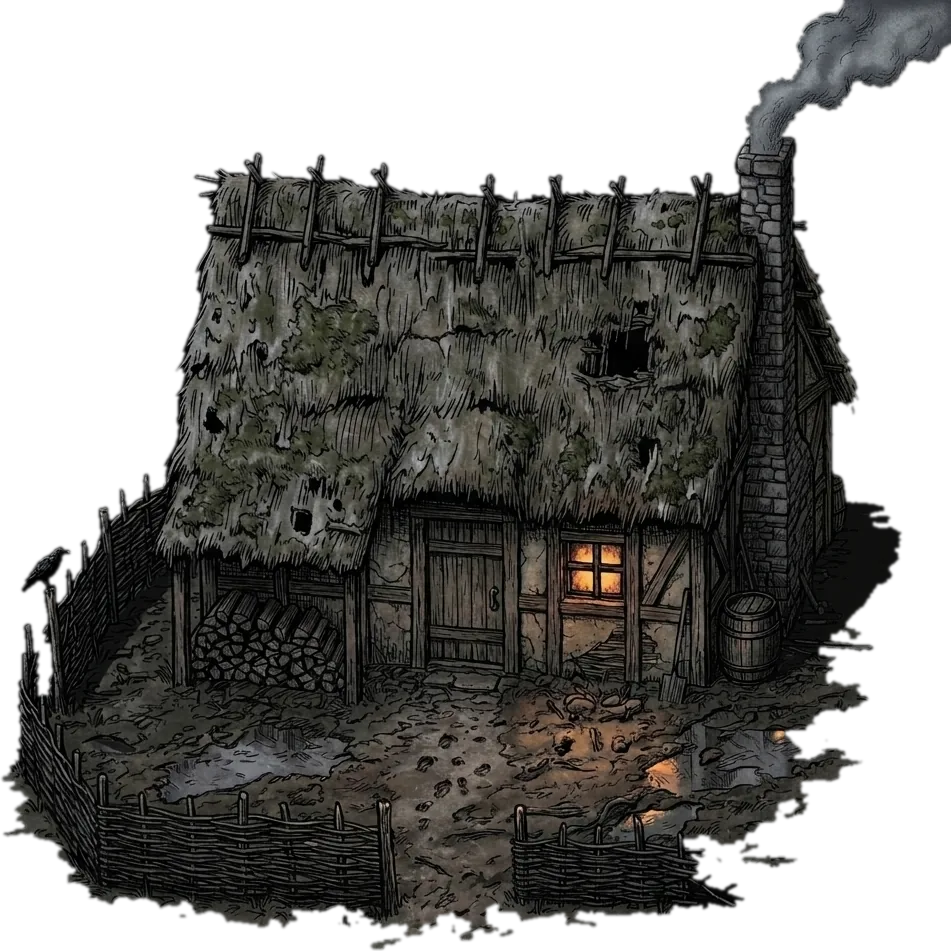
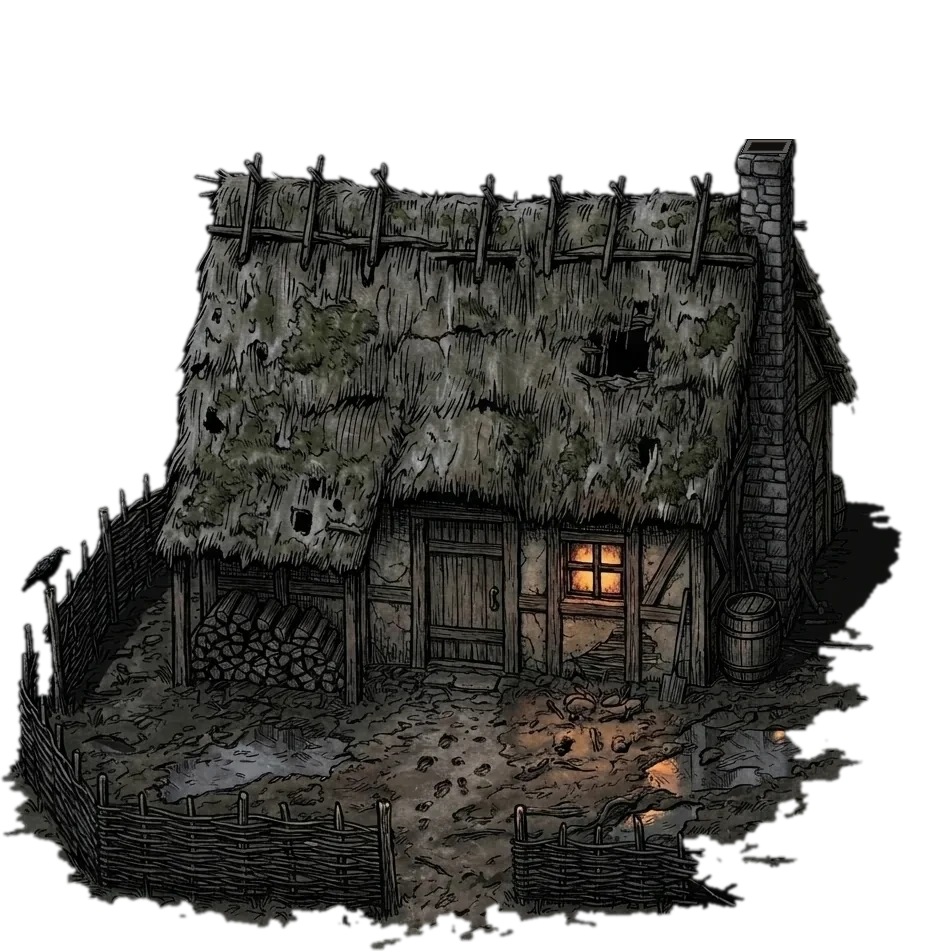
Ruchomy dym z komina i iskry nad paleniskiem w izbie
Agent: Claude (Opus)
Claude-Session: https://claude.ai/code/session_01GQsjt3bZ7B4T5Es8veBj7T

Changed region(s): [[0.7624, 0.0, 1.0, 0.183]]

diff --git a/gra/rysowanie.js b/gra/rysowanie.js
@@ -181,9 +181,14 @@ export function przygotujRysowanie(cv, obrazChaty, { wymusProcesor = false, obra
   const powietrze = new P.Container();           // krew w locie
   const znakiZiemia = new P.Graphics();          // zapowiedź uderzenia kolosa i fala po nim: leżą na ziemi
   const para = new P.Graphics();                 // oddech w zimnej nocy
+  // Dym z komina i iskry z paleniska w izbie: chata ma wyglądać na zamieszkaną (Patryk, 25 XI 20:40, „dym z komina … jest w miejscu”).
+  // Dym był namalowany na obrazie chaty i stał; teraz obłoki wychodzą z wylotu, rosną, płyną z wiatrem i bledną.
+  const dymK = new P.Graphics(), dymy = [], iskryIzby = [];
+  const KOMIN = { x: CHATA.x + 768 * CHATA.skala, y: CHATA.y + 146 * CHATA.skala };
+  let dymNa = 0, iskraNa = 0;
   const trupyC = new P.Container();              // ostatnie ciała leżą jako ostre obrazy, starsze idą do śladów
   const ozdoby = new P.Container();                // kępy trawy, mchu i liści z arkuszy Przemka: leżą pod krwią
-  swiat.addChild(ziemia, plamy, droga, ozdoby, podworko, izbaSpod, slady, trupyC, znakiZiemia, cienie, echaS, aktorzy, echa, powietrze, para);
+  swiat.addChild(ziemia, plamy, droga, ozdoby, podworko, izbaSpod, slady, trupyC, znakiZiemia, cienie, echaS, aktorzy, echa, powietrze, para, dymK);
 
   // drzewa
   const drzewa = DRZEWA.map((d, i) => {
@@ -1284,6 +1289,34 @@ export function przygotujRysowanie(cv, obrazChaty, { wymusProcesor = false, obra
       for (const [szer, kol, al] of [[4, 0x9a5cff, 0.75], [1.5, 0xf4e8ff, 0.95]]) {
         smugi.lineStyle(szer, kol, al * (1 - q)); smugi.moveTo(p.pkt[0], p.pkt[1]);
         for (let k = 2; k < p.pkt.length; k += 2) smugi.lineTo(p.pkt[k] + losuj(-2, 2), p.pkt[k + 1]);
+      }
+    }
+
+    // dym z komina: czas rzeczywisty, więc dym idzie także, gdy gra stoi w ciszy chaty
+    {
+      const dtr = Math.min(0.05, dt);
+      dymNa -= dtr;
+      if (dymNa <= 0) { dymNa = losuj(0.09, 0.15); if (dymy.length < 70) dymy.push({ x: KOMIN.x + losuj(-4, 4), y: KOMIN.y, vx: losuj(4, 10), vy: losuj(-34, -26), r: losuj(5, 7), t: 0, czas: losuj(4.5, 6), f: losuj(0, TAU) }); }
+      dymK.clear();
+      const wid = 1 - 0.8 * stanRys.bezDachu;                    // w izbie dach znika, dym zostaje, ale cichszy
+      for (let i = dymy.length - 1; i >= 0; i--) {
+        const d = dymy[i]; d.t += dtr; const q = d.t / d.czas;
+        if (q >= 1) { dymy.splice(i, 1); continue; }
+        d.vx = Math.min(d.vx + (4 + 2 * Math.sin(czas * 0.4)) * dtr, 26);            // wiatr znosi w prawo, raz mocniej, raz słabiej
+        d.vy *= Math.exp(-dtr * 0.15);
+        d.x += (d.vx + Math.sin(d.f + d.t * 1.3) * 4) * dtr; d.y += d.vy * dtr;
+        const r = d.r + 24 * Math.sqrt(q), al = Math.min(1, q * 25) * Math.pow(1 - q, 1.5) * 0.42 * wid;
+        dymK.lineStyle(0);
+        dymK.beginFill(q < 0.1 ? 0x4a4846 : q < 0.35 ? 0x7c7f84 : 0x9a9fa7, al); dymK.drawEllipse(d.x, d.y, r, r * 0.82); dymK.drawEllipse(d.x + r * 0.45, d.y - r * 0.3, r * 0.6, r * 0.5); dymK.endFill();   // wyżej jaśniejszy, w świetle księżyca
+      }
+      // iskry nad paleniskiem w izbie, widać je, gdy dach jest zdjęty
+      iskraNa -= dtr;
+      if (stanRys.bezDachu > 0.05 && iskraNa <= 0) { iskraNa = losuj(0.12, 0.35); iskryIzby.push({ x: CHATA.palenisko.x + losuj(-14, 14), y: CHATA.palenisko.y + 34, vx: losuj(-8, 8), vy: losuj(-38, -22), t: 0, czas: losuj(0.7, 1.3) }); }
+      for (let i = iskryIzby.length - 1; i >= 0; i--) {
+        const k = iskryIzby[i]; k.t += dtr; const q = k.t / k.czas;
+        if (q >= 1 || stanRys.bezDachu < 0.05) { iskryIzby.splice(i, 1); continue; }
+        k.x += (k.vx + Math.sin(k.t * 9 + i) * 10) * dtr; k.y += k.vy * dtr;
+        dymK.lineStyle(0); dymK.beginFill(q < 0.5 ? 0xffd27a : 0xff8a3a, (1 - q) * stanRys.bezDachu); dymK.drawCircle(k.x, k.y, 1.6 * (1 - q * 0.5)); dymK.endFill();
       }
     }
 

diff --git a/narzedzia/chata-bez-dymu.py b/narzedzia/chata-bez-dymu.py
@@ -1,0 +1,13 @@
+# Zdejmuje namalowany dym znad komina z grafika/chata.webp (Patryk, 25 XI 20:40: „dym z komina … jest w miejscu”).
+# Dym rysuje teraz gra (rysowanie.js, „dym z komina”), więc na obrazie zostaje komin z ciemnym wylotem.
+# Uruchamiać na obrazie z dymem (kopia sprzed zmiany: git show b14a895:grafika/chata.webp).
+from PIL import Image, ImageDraw
+P = 'grafika/chata.webp'
+im = Image.open(P).convert('RGBA'); px = im.load()
+for y in range(0, 139):
+    for x in range(690, im.width): px[x, y] = (0, 0, 0, 0)     # nad krawędzią komina był tylko dym
+d = ImageDraw.Draw(im)
+gora = [(747, 139), (792, 139), (787, 153), (741, 153)]       # wierzch komina (był zasłonięty dymem)
+d.polygon(gora, fill=(92, 90, 88, 255), outline=(20, 18, 16, 255))
+d.polygon([(752, 142), (786, 142), (782, 150), (747, 150)], fill=(18, 15, 13, 255), outline=(40, 36, 33, 255))   # wylot
+im.save(P, 'WEBP', quality=92, method=6)

diff --git a/STAN.md b/STAN.md
@@ -2,7 +2,7 @@
 
 Aktualizowany przy każdej zmianie. Historia jest w gicie, tutaj tylko to, co obowiązuje teraz.
 
-**Ostatnia zmiana:** 25 XI 2026 po 20:50: chata wygląda na niedawno zamieszkaną, pierwsza kartka leży w izbie, kartki opowiadają szukanie lekarstwa i zapowiadają bossa. Wcześniej: 25 XI 2026 po 20:30: kartki dziennika rycerza, klątwa jako cena siły i dwa zakończenia, przewroty dwuręcznym z póz Gemini, lepsze padanie ghula, kałuża wiedźmy znika. Wcześniej: 25 XI 2026 po 16:40: wiedźma znów rozpływa się w kałużę błota, bez wybuchu. Wcześniej: 25 XI 2026 po 16:20: zwykły miecz cofa się w gardzie oburącz z filmu; kolos i wiedźma padają z filmu zamiast rozcięcia na pół. Wcześniej: 25 XI 2026 po 15:35: cofanie w bloku zwykłym mieczem bez szarpnięć. Wcześniej: 25 XI 2026 po 15:35: zwykły miecz w obronie trzyma gardę oburącz także przy cofaniu. Wcześniej: 25 XI 2026 po 15:30: unik nie ślizga się w przysiadzie (prędkość za fazą przewrotu), stare trupy i pęknięcia klątwy bledną. Wcześniej: 25 XI 2026 po 15:10: wiedźma patrzy na bohatera przy rzucie, krąży żywiej, kula ma błyskawice i dym; przewroty dwuręcznym bez stania na rękach. Wcześniej: 25 XI 2026 po 14:50: wiedźma z bagien rzuca kulami klątwy z daleka (noce 2–4); dwuręczny ma przewroty w górę i w dół. Wcześniej: 25 XI 2026 po 14:15: dwuręczny chowa miecz na plecy i z nich go wyciąga. Wcześniej: 25 XI 2026 po 14: dwuręczny ma własny unik, trafienie i klątwę z filmów Veo. Wcześniej: 25 XI 2026 po 13:50: droga z kafla Gemini, koleiny idą za zakrętami. Wcześniej: 25 XI 2026 po 13:30: mniejszy pasek życia na telefonie. Wcześniej: 25 XI 2026 po 13:30: droga z rysunku ziemi Przemka, beczki, drewno i pochodnia przy drodze (płoty zdjęte, Patryk: „nie pasują”). Wcześniej: mocniejsze fale od pierwszej nocy, droga do chatki, smuga cięcia tylko na końcu ostrza. Wcześniej po 13: 25 XI 2026 po 13: zwykły miecz cofa się w bloku krokami z filmu Veo; dwuręczny jak 24 XI. Wcześniej po południu: ziemia z kafla Gemini w stylu arkuszy. Wcześniej w południe: rekwizyty bez białych obwódek, spokojniejsza ziemia, bez podskoków w bloku zwykłym mieczem. Wcześniej przed południem: z dwuręcznym w bloku widać kroki w tył (film Patryka z Flow); drzewo zasłaniające bohatera przygasa, zamiast robić z niego ducha. Wcześniej 24 XI wpół do 20: wyciąganie i chowanie miecza tylko na stojąco, w biegu od razu. Wcześniej po 19: w bloku bohater drobi krótkie kroki zamiast sunąć, a cios w ostrze go cofa. Wcześniej po 19: z dwuręcznym bohater ma własne cięcie, gardę, bieg i blok (filmy Patryka z Flow), wybór ulepszeń w ramie z czaszkami. Wcześniej przed 19: totemy da się rozbić (strona cichnie), mikstury z łupu (Q), ognisko gaśnie i trzeba dorzucać drewna ze stosu pod chatą, wybór ulepszenia po każdej fali; dwie bronie (miecz i dwuręczny). Wcześniej wpół do 19: paski w ramie z czaszkami z portretem, totemy z filmu zamiast mgieł (potwory wychodzą spod nich). Wcześniej po 18: dłuższe przerwy między falami (9 s), z każdą falą więcej potworów i bardziej agresywne; etap B grafik Przemka (iskry przy bloku, rozbryzgi krwi, krąg z kolcami pod kolosem, ikony przycisków na telefonie). Wcześniej wieczorem: etap A grafik Przemka (ognisko z filmu, drzewa z arkuszy, kępy trawy, mchu i liści na ziemi, krew i kałuże z arkuszy; docs/materialy-przemka.md). Wcześniej po 15: blok z filmu (unosi, trzyma, drga przy ciosie) i skuteczniejszy (tańszy, szerszy, sam się obraca do wroga). W walce bohater biega z mieczem w dłoni, poza walką stoi prosto. Przed 15: drzwi zamyka się też z izby, jaśniej wokół bohatera, gęstszy koziołek w górę. Wcześniej po 14: przewrót w górę i w dół z filmów Patryka, drzwi chaty otwiera się E (z animacją i skrzypieniem), nowa mgła, polecenie do Flow w dwóch krokach. Wcześniej po południu: chata jak w Tibii (wchodzi się drzwiami, dach znika, w środku posłanie), wyciąganie i chowanie miecza z filmu, chód w dół przodem. Wcześniej w południe: chata ma izbę z obrazu Gemini (chodzenie, sen na posłaniu, wyjście drzwiami), a bohater obok chaty nie robi się już przezroczysty. Wcześniej rano: drzwi i odpoczynek w ciszy, cięcie jak mieczem (sierp i ostrze), garda w walce, plan chaty. W nocy: ghul i kolos z filmów Przemka, a bohater dostał bieg, chód plecami, przewrót przy uniku i upadek. Wcześniej tej nocy klątwa pod R i bohater z filmów. Fundamenty i gra czekają w pull requeście nr 1.
+**Ostatnia zmiana:** 25 XI 2026 po 21: dym z komina płynie z wiatrem zamiast stać, iskry nad paleniskiem w izbie. Wcześniej: 25 XI 2026 po 20:50: chata wygląda na niedawno zamieszkaną, pierwsza kartka leży w izbie, kartki opowiadają szukanie lekarstwa i zapowiadają bossa. Wcześniej: 25 XI 2026 po 20:30: kartki dziennika rycerza, klątwa jako cena siły i dwa zakończenia, przewroty dwuręcznym z póz Gemini, lepsze padanie ghula, kałuża wiedźmy znika. Wcześniej: 25 XI 2026 po 16:40: wiedźma znów rozpływa się w kałużę błota, bez wybuchu. Wcześniej: 25 XI 2026 po 16:20: zwykły miecz cofa się w gardzie oburącz z filmu; kolos i wiedźma padają z filmu zamiast rozcięcia na pół. Wcześniej: 25 XI 2026 po 15:35: cofanie w bloku zwykłym mieczem bez szarpnięć. Wcześniej: 25 XI 2026 po 15:35: zwykły miecz w obronie trzyma gardę oburącz także przy cofaniu. Wcześniej: 25 XI 2026 po 15:30: unik nie ślizga się w przysiadzie (prędkość za fazą przewrotu), stare trupy i pęknięcia klątwy bledną. Wcześniej: 25 XI 2026 po 15:10: wiedźma patrzy na bohatera przy rzucie, krąży żywiej, kula ma błyskawice i dym; przewroty dwuręcznym bez stania na rękach. Wcześniej: 25 XI 2026 po 14:50: wiedźma z bagien rzuca kulami klątwy z daleka (noce 2–4); dwuręczny ma przewroty w górę i w dół. Wcześniej: 25 XI 2026 po 14:15: dwuręczny chowa miecz na plecy i z nich go wyciąga. Wcześniej: 25 XI 2026 po 14: dwuręczny ma własny unik, trafienie i klątwę z filmów Veo. Wcześniej: 25 XI 2026 po 13:50: droga z kafla Gemini, koleiny idą za zakrętami. Wcześniej: 25 XI 2026 po 13:30: mniejszy pasek życia na telefonie. Wcześniej: 25 XI 2026 po 13:30: droga z rysunku ziemi Przemka, beczki, drewno i pochodnia przy drodze (płoty zdjęte, Patryk: „nie pasują”). Wcześniej: mocniejsze fale od pierwszej nocy, droga do chatki, smuga cięcia tylko na końcu ostrza. Wcześniej po 13: 25 XI 2026 po 13: zwykły miecz cofa się w bloku krokami z filmu Veo; dwuręczny jak 24 XI. Wcześniej po południu: ziemia z kafla Gemini w stylu arkuszy. Wcześniej w południe: rekwizyty bez białych obwódek, spokojniejsza ziemia, bez podskoków w bloku zwykłym mieczem. Wcześniej przed południem: z dwuręcznym w bloku widać kroki w tył (film Patryka z Flow); drzewo zasłaniające bohatera przygasa, zamiast robić z niego ducha. Wcześniej 24 XI wpół do 20: wyciąganie i chowanie miecza tylko na stojąco, w biegu od razu. Wcześniej po 19: w bloku bohater drobi krótkie kroki zamiast sunąć, a cios w ostrze go cofa. Wcześniej po 19: z dwuręcznym bohater ma własne cięcie, gardę, bieg i blok (filmy Patryka z Flow), wybór ulepszeń w ramie z czaszkami. Wcześniej przed 19: totemy da się rozbić (strona cichnie), mikstury z łupu (Q), ognisko gaśnie i trzeba dorzucać drewna ze stosu pod chatą, wybór ulepszenia po każdej fali; dwie bronie (miecz i dwuręczny). Wcześniej wpół do 19: paski w ramie z czaszkami z portretem, totemy z filmu zamiast mgieł (potwory wychodzą spod nich). Wcześniej po 18: dłuższe przerwy między falami (9 s), z każdą falą więcej potworów i bardziej agresywne; etap B grafik Przemka (iskry przy bloku, rozbryzgi krwi, krąg z kolcami pod kolosem, ikony przycisków na telefonie). Wcześniej wieczorem: etap A grafik Przemka (ognisko z filmu, drzewa z arkuszy, kępy trawy, mchu i liści na ziemi, krew i kałuże z arkuszy; docs/materialy-przemka.md). Wcześniej po 15: blok z filmu (unosi, trzyma, drga przy ciosie) i skuteczniejszy (tańszy, szerszy, sam się obraca do wroga). W walce bohater biega z mieczem w dłoni, poza walką stoi prosto. Przed 15: drzwi zamyka się też z izby, jaśniej wokół bohatera, gęstszy koziołek w górę. Wcześniej po 14: przewrót w górę i w dół z filmów Patryka, drzwi chaty otwiera się E (z animacją i skrzypieniem), nowa mgła, polecenie do Flow w dwóch krokach. Wcześniej po południu: chata jak w Tibii (wchodzi się drzwiami, dach znika, w środku posłanie), wyciąganie i chowanie miecza z filmu, chód w dół przodem. Wcześniej w południe: chata ma izbę z obrazu Gemini (chodzenie, sen na posłaniu, wyjście drzwiami), a bohater obok chaty nie robi się już przezroczysty. Wcześniej rano: drzwi i odpoczynek w ciszy, cięcie jak mieczem (sierp i ostrze), garda w walce, plan chaty. W nocy: ghul i kolos z filmów Przemka, a bohater dostał bieg, chód plecami, przewrót przy uniku i upadek. Wcześniej tej nocy klątwa pod R i bohater z filmów. Fundamenty i gra czekają w pull requeście nr 1.
 
 ## Teraz
 
